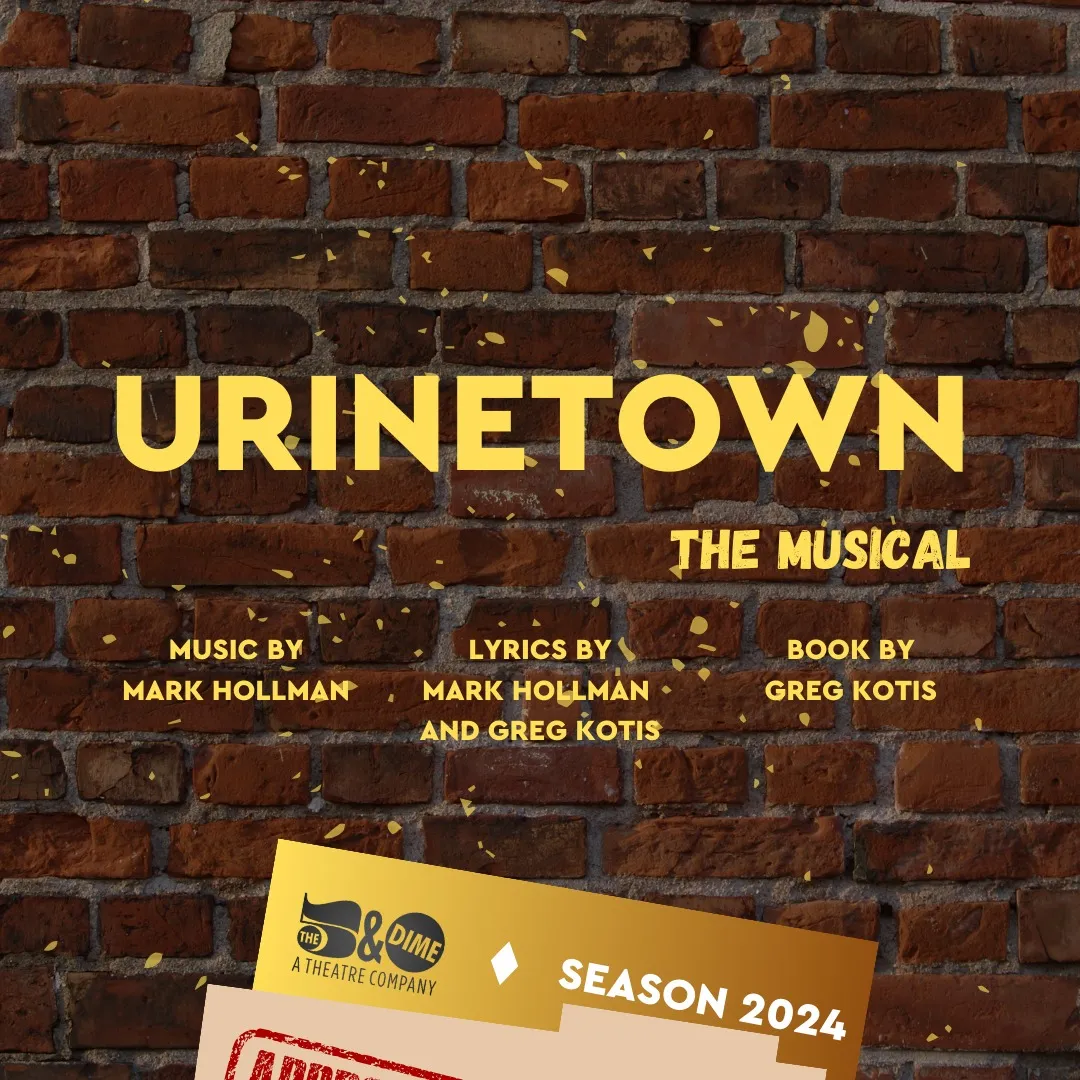
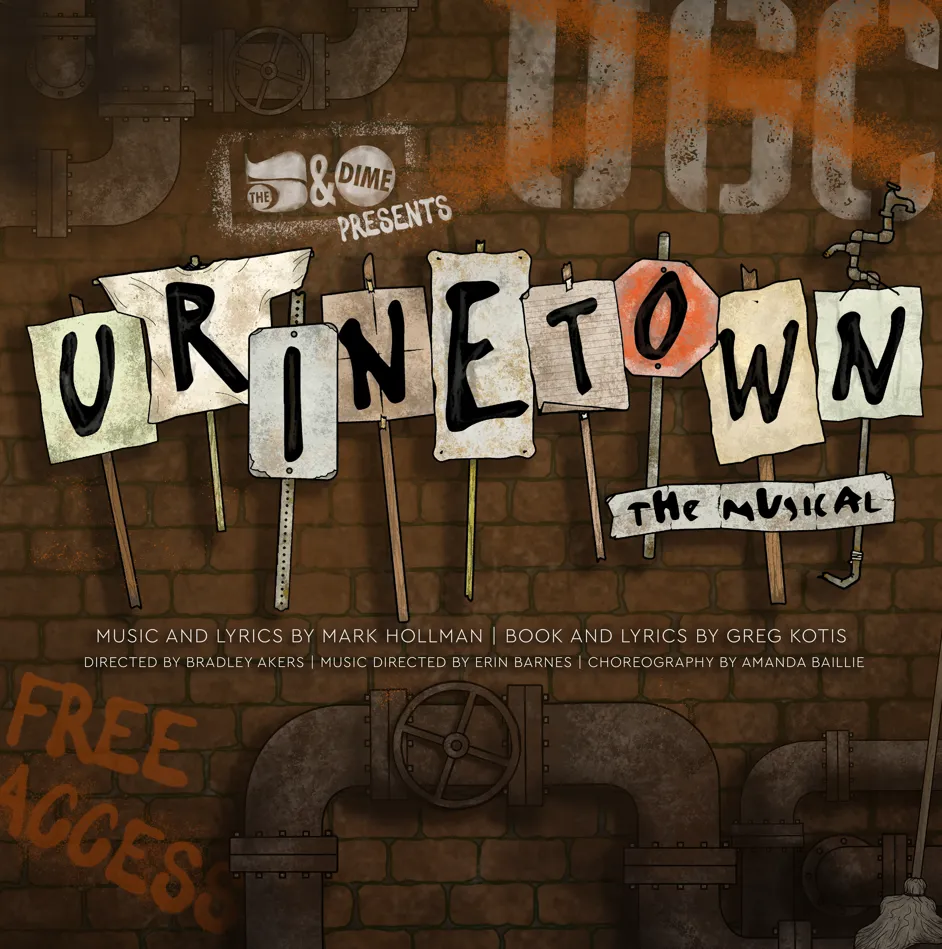
Updated 2024 5 & Dime

diff --git a/content/productions/2024/2024-Lizzie.md b/content/productions/2024/2024-Lizzie.md
@@ -1,0 +1,46 @@
+---
+title: Lizzie
+Theatre: The 5 & Dime
+Venue: The Florida Ballet 
+date: 2024-05-21T19:04:18-04:00
+opening_date: 2024-10-31
+closing_date: 2024-11-16
+showtimes:
+  - 2024-10-31 20:00:00
+  - 2024-11-01 20:00:00
+  - 2024-11-02 20:00:00
+  - 2024-11-03 14:00:00
+  - 2024-11-08 20:00:00
+  - 2024-11-09 20:00:00
+  - 2024-11-10 14:00:00
+  - 2024-11-15 20:00:00
+  - 2024-11-16 20:00:00
+featured_image: 2024-Lizzie.webp
+featured_image_alt: 
+featured_image_caption: Teaser graphic for 'Lizzie'
+featured_image_attr: 
+featured_image_attr_link: 
+playbill:
+Website: https://www.the5anddime.org/lizzie-the-musical
+Tickets: https://www.eventbrite.com/e/lizzie-tickets-773068587957
+show_details: 
+- Book: Tim Maner
+- Music:
+  - Steven Cheslik-DeMeyer
+  - Alan Stevens Hewitt
+- Additional Music: Tim Maner
+- Lyrics:
+  - Steven Cheslik-DeMeyer
+  - Tim Maner
+- Additional Lyrics: Alan Stevens Hewitt
+- Website: https://www.lizziethemusical.com/
+cast:
+crew:
+orchestra:
+Genres:
+  - Musical
+  - Rock
+  - Drama
+Description: "Dive into the pulse-pounding rock musical *Lizzie*, where the infamous story of Lizzie Borden explodes onto the stage with raw energy and fierce rebellion."
+---
+*Lizzie* reimagines the chilling tale of Lizzie Borden, the woman at the center of one of America's most infamous murder cases. Set against a backdrop of searing rock music and punk intensity, this musical by Tim Maner delivers a visceral and thrilling experience. The story delves into Lizzie's world of repression and abuse, capturing her transformation from a quiet, obedient daughter into a symbol of defiance and empowerment. With a powerhouse score and electrifying performances, *Lizzie* is a bold, unapologetic exploration of rage, justice, and liberation that will leave you breathless.

diff --git a/content/productions/2024/2024-2024-Twilight-Los-Angeles-1992.md b/content/productions/2024/2024-2024-Twilight-Los-Angeles-1992.md
@@ -1,0 +1,44 @@
+---
+title: "Twilight: Los Angeles, 1992"
+Theatre: The 5 & Dime
+Venue: BABS' LAB
+date: 2024-05-21T19:23:07-04:00
+opening_date: 2024-06-07
+closing_date: 2024-06-09
+showtimes:
+  - 2024-06-07 19:30:00
+  - 2024-06-08 19:30:00
+  - 2024-06-09 19:30:00
+featured_image: 2024-Twilight-Los-Angeles-1992.webp
+featured_image_alt: "Graphic for 'Twilight: Los Angeles, 1992'"
+featured_image_caption: 
+featured_image_attr: 
+featured_image_attr_link: 
+playbill:
+Website: 
+Tickets: 
+show_details: 
+- Playwright: Anna Deveare Smith
+cast:
+- Performers: 
+  - Amy Love
+  - Bill Ratliff
+  - Jocelyn Geronimo
+  - Chris Randolph
+  - Jas Abramowitz
+  - Rhodie Jackson
+  - Richie Rosado
+  - Cynthia Riegler
+crew:
+- Director: Lindsay Curry
+- Stage Manager: Nicole Anderson
+orchestra:
+# Twilight: Los Angeles, 1992
+Genres:
+  - Play
+  - Staged Reading
+  - Drama
+  - Documentary Theater
+Description: "Experience the raw and riveting accounts of *Twilight: Los Angeles, 1992,* a powerful documentary play that captures the voices and tensions surrounding the Los Angeles riots."
+---
+*Twilight: Los Angeles, 1992* by Anna Deavere Smith offers a gripping portrayal of the events and aftermath of the 1992 Los Angeles riots. Through a series of verbatim monologues, Smith brings to life the perspectives of over 40 real-life characters, from victims and bystanders to police officers and activists. This compelling drama delves into themes of race, justice, and identity, providing a multifaceted look at a pivotal moment in American history.

diff --git a/content/productions/2024/2024-Urinetown.md b/content/productions/2024/2024-Urinetown.md
@@ -21,7 +21,7 @@ featured_image_caption: Teaser graphic for 'Urinetown' at The 5 & Dime
 featured_image_attr: 
 featured_image_attr_link: 
 playbill:
-Website: https://www.eventbrite.com/e/urinetown-tickets-773028267357
+Website: https://www.the5anddime.org/urinetown
 Tickets: https://www.eventbrite.com/e/urinetown-tickets-773028267357
 show_details: 
 - Book: Greg Kotis - wiki
@@ -31,6 +31,9 @@ show_details:
   - Greg Kotis
 cast:
 crew:
+- Director: Bradley Akers
+- Musical Director: Erin Barnes
+- Choreography: Amanda Baillie
 orchestra:
 Genres:
   - Musical

diff --git a/content/productions/2024/2024-the-ripple-the-wave-that-carried-me-home.md b/content/productions/2024/2024-the-ripple-the-wave-that-carried-me-home.md
@@ -18,7 +18,7 @@ featured_image_caption: Teaser graphic for 'The Ripple, The Wave That Carried Me
 featured_image_attr: 
 featured_image_attr_link: 
 playbill:
-Website: 
+Website: https://www.the5anddime.org/the-ripple-the-wave-that-carried-me-home
 Tickets: https://www.eventbrite.com/e/the-ripple-the-wave-that-carried-me-home-tickets-773019501137
 show_details: 
 - Playwright: Christina Anderson
@@ -26,7 +26,6 @@ cast:
 crew:
 - Director: David Girard
 orchestra:
-# the ripple, the wave that carried me home
 Genres:
   - Play
   - Drama
